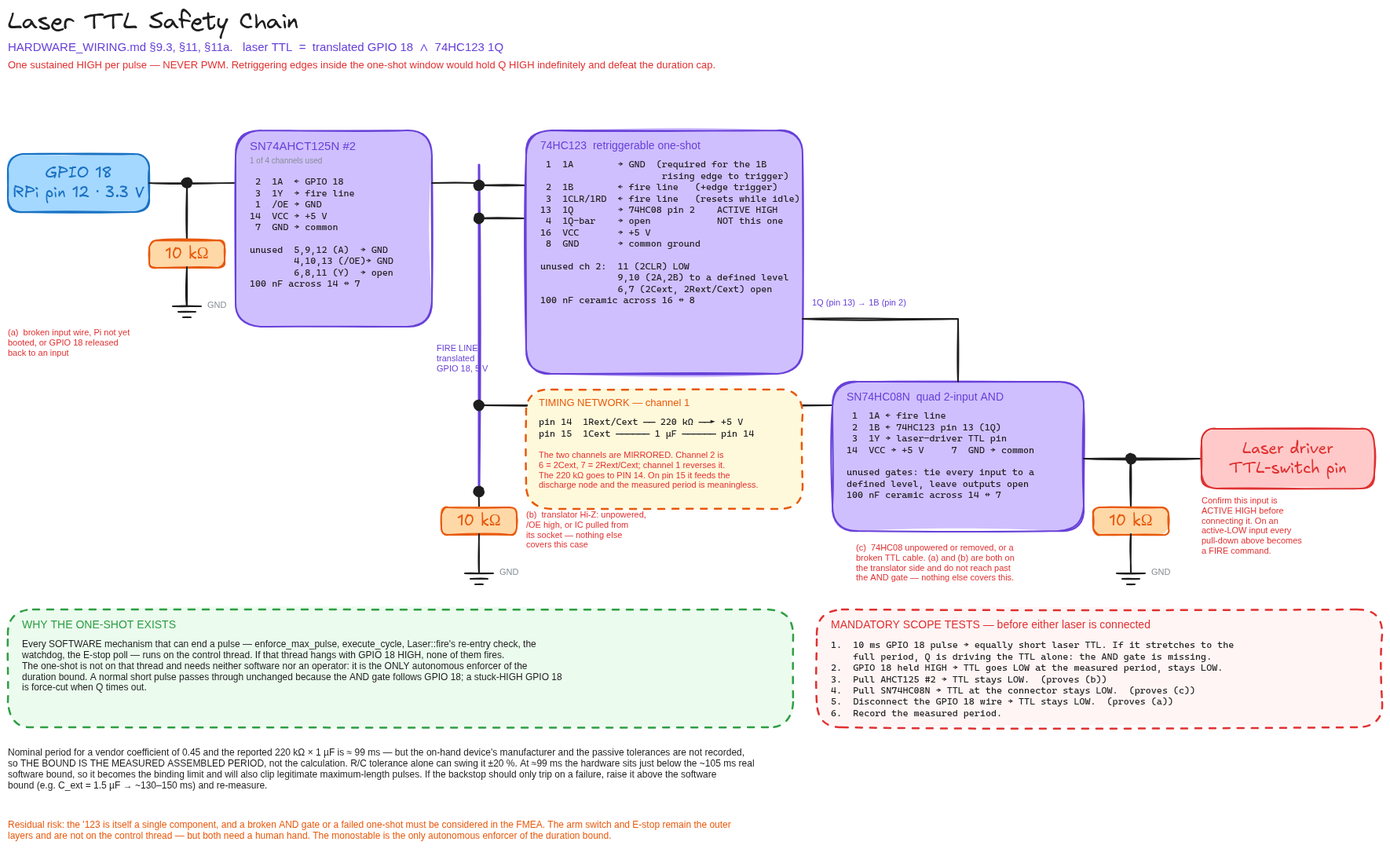
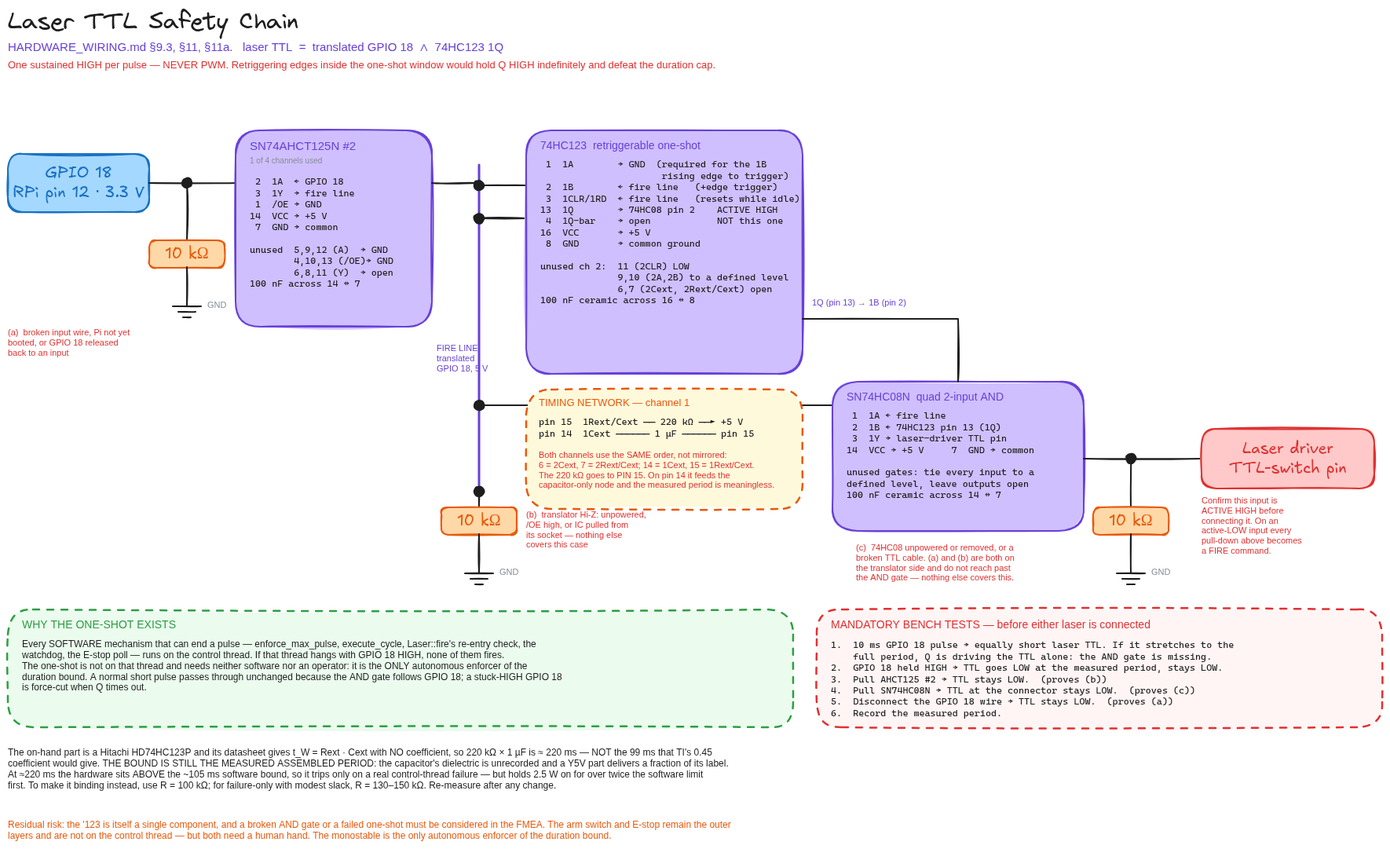
docs: fix 74HC123 timing pins and coefficient against the Hitachi datasheet
The monostable on hand is a Hitachi HD74HC123P (date code 9K06), identified
from the package marking. Its datasheet contradicts this project's wiring
guide on two independent points, both in the timing network, and both were
recorded here as assumptions borrowed from a Texas Instruments part that is
not the part in the box.

Pins 14 and 15 were the wrong way round -- the serious one
  The guide specified the 220 kOhm on pin 14 and justified it with a
  prominent warning block claiming the two channels are "mirrored". The
  datasheet's pin arrangement says otherwise:

      1B     2 | 15  1Rext/Cext
      1CLR   3 | 14  1Cext
      2Cext  6 | 11  2CLR
      2Rext/ 7 | 10  2B

  Both channels use the SAME order -- Cext at the lower pin number, Rext/Cext
  at the higher -- so there is no mirroring and the 220 kOhm belongs on
  pin 15. Built as previously documented, the resistor lands on the
  capacitor-only node: precisely the failure the warning block claimed to
  prevent, and the one that makes the mandatory measurement correspond to
  nothing in the design.

  This is the second time these two pins have been swapped in this document.
  The first correction moved them the wrong way and invented a rationale for
  it. Corrected now against the datasheet of the device actually on hand, in
  HARDWARE_WIRING.md 2/11a/17, PRE_FLIGHT_CHECKLIST.md 2 and its go/no-go
  table, AGENTS.md 4.1, README.md, and drawings 5 and 6.
[…]

diff --git a/docs/HARDWARE_WIRING.md b/docs/HARDWARE_WIRING.md
@@ -144,7 +144,7 @@ the counts to shop against; the rows above are the counts per role.
 | 1 kΩ, 1/2 W | **1** | E-stop series |
 | BZX55C3V3 | **2** | one clamp per sense junction |
 | 10 µF | **1** | 5 V rail bulk |
-| 220 kΩ, 1/2 W | **1** | 74HC123 timing, to **pin 14** (§11a) |
+| 220 kΩ, 1/2 W | **1** | 74HC123 timing, to **pin 15** (§11a) |
 | 1 µF, 50 V ceramic | **1** | 74HC123 timing, pins 15↔14 (§11a) |
 
 Meter every resistor before installation and fit it against the value in the
@@ -901,8 +901,8 @@ SN74AHCT125N #2 1Y (pin 3, §9) ─────┬──────────
 
 Timing network (channel 1) — the pin numbers below are load-bearing, see the
 warning that follows this block:
-    74HC123  1Cext (pin 15) ──── 1 µF / 50 V monolithic ceramic ──── 1Rext/Cext (pin 14)
-    74HC123  1Rext/Cext (pin 14) ── 220 kΩ ──► +5 V
+    74HC123  1Cext (pin 14) ──── 1 µF / 50 V monolithic ceramic ──── 1Rext/Cext (pin 15)
+    74HC123  1Rext/Cext (pin 15) ── 220 kΩ ──► +5 V
     74HC123 VCC (pin 16) ──► +5 V ; GND (pin 8) ──► common GND
     100 nF ceramic directly across 74HC123 pins 16↔8
     Unused channel 2: hold 2CLR/2RD (pin 11) LOW; tie 2A/2B (pins 9/10) to defined levels;
@@ -914,15 +914,18 @@ AND gate:
     Tie every unused AND-gate input to a defined HIGH or LOW; leave unused outputs open
 ```
 
-> **The two channels are mirrored — do not carry channel 2's pin order into
-> channel 1.** On the standard 74HC123 pinout channel 2 is `6 = 2Cext,
-> 7 = 2Rext/Cext`, while channel 1 is `14 = 1Rext/Cext, 15 = 1Cext`. The order
-> reverses. A previous revision of this document had 14 and 15 swapped, which
-> puts the 220 kΩ on the discharge node instead of the timing node: the one-shot
-> does not time as designed, and the mandatory measurement below then
-> corresponds to nothing in the design. **The 220 kΩ goes to pin 14.** Check it
-> against the datasheet of the device actually in your hand before powering the
-> board.
+> **The 220 kΩ goes to pin 15.** On the standard 74HC123 pinout the two channels
+> follow the *same* order, not a mirrored one: `6 = 2Cext, 7 = 2Rext/Cext` for
+> channel 2, and `14 = 1Cext, 15 = 1Rext/Cext` for channel 1 — Cext at the lower
+> pin number in both. This is confirmed against the pin arrangement in the
+> Hitachi **HD74HC123A** datasheet, the family of the device actually on hand.
+>
+> Two earlier revisions of this document had 14 and 15 the other way round, the
+> second one justified by a "mirrored channels" claim that the datasheet does not
+> support. Built that way the 220 kΩ lands on the capacitor-only node instead of
+> the timing node: the one-shot does not time as designed, and the mandatory
+> measurement below then corresponds to nothing in the design. Check it against
+> the datasheet of the device actually in your hand before powering the board.
 
 Pin 13 is the channel-1 **active-HIGH Q** output on the standard 74HC123 pinout;
 pin 4 is its active-LOW complement and must not be used for the AND gate. Verify
@@ -942,19 +945,45 @@ with the 74HC08 absent, while still letting the 74HC08 pull it HIGH.
 
 ### Timing
 
-For a 74HC123 whose manufacturer specifies `K = 0.45` at 5 V and this
-capacitance range:
+The on-hand device is a **Hitachi HD74HC123P** (date code 9K06). Its datasheet
+states the pulse equation with **no coefficient at all**:
 
-`t_W ≈ K · R_ext · C_ext = 0.45 · 220 kΩ · 1 µF ≈ 99 ms`
+`t_W = R_ext · C_ext`
 
-The on-hand device's manufacturer/full ordering code and the R/C tolerances are
-not recorded. The coefficient can differ by manufacturer, and the fitted
-monolithic ceramic capacitor's effective capacitance can differ from its label.
-**Measure the assembled circuit.** If the measured result is around 99 ms it
-sits just below the ~105 ms real software bound, so the hardware becomes the
-binding limit and clips legitimate max-length pulses. Any change to the timing
-network requires a new calculation and a fresh measurement; do not rely on the
-nominal marking alone.
+and the switching table confirms it — `C_ext = 0.1 µF, R_ext = 10 kΩ` is
+specified as a typical `t_WQ` of **1.0 ms**, which is exactly `R · C`. So for the
+fitted parts:
+
+`t_W = 220 kΩ · 1 µF ≈ 220 ms`
+
+**This is not the 99 ms this document previously claimed.** That figure came
+from applying the Texas Instruments `K = 0.45` coefficient to a part that is not
+a TI part — an assumption recorded as an assumption, and wrong by a factor of
+2.2 in the direction that *weakens* the backstop. At 220 ms the one-shot sits
+**above** the ~105 ms real software bound rather than just below it, so it no
+longer clips legitimate pulses and instead trips only on a genuine control-thread
+failure — but with far more slack than intended, holding 2.5 W on for over twice
+the software limit before cutting.
+
+Choose the regime deliberately and size the network for it, all values with
+`K = 1`:
+
+| Intent | Target | With C = 1 µF | With R = 220 kΩ |
+|--------|--------|---------------|-----------------|
+| Hardware is the binding limit, clips long pulses | ~99 ms | R = 100 kΩ | C = 0.45 µF |
+| Trips only on failure, modest slack | ~130–150 ms | R = 130–150 kΩ | C = 0.6–0.68 µF |
+| As currently fitted | ~220 ms | — | — |
+
+**Measure the assembled circuit** whatever you choose. The datasheet gives the
+equation, not the part in your hand: the capacitor's dielectric is unrecorded,
+and a Y5V or Z5U 1 µF can deliver a fraction of its nominal capacitance under
+bias and temperature. Any change to the timing network requires a new
+calculation and a fresh measurement.
+
+The marking reads `HD74HC123P`, without the `A` of the datasheet revision
+obtained (`HD74HC123A`). The pin arrangement is the industry-standard 74123
+pinout and is not in doubt; the coefficient should be re-confirmed by the
+measurement, which is mandatory regardless.
 
 **±20% is accurate enough — this is a bound to be known, not a parameter to be
 tuned.** What the measurement rules out is not a 10% error but a
@@ -1042,7 +1071,7 @@ something it cannot act on that the hardware has not already done. Pull-downs
 
 ### Verification (mandatory before connecting the Class 4 laser)
 
-- [ ] **Short pulse passes through:** drive GPIO 18 HIGH for ~10 ms; the laser TTL must be HIGH for ~10 ms (not stretched to ~99 ms). If it stretches, Q is driving the TTL *alone* — the AND gate is missing or miswired. Fix before proceeding.
+- [ ] **Short pulse passes through:** drive GPIO 18 HIGH for ~10 ms; the laser TTL must be HIGH for ~10 ms (not stretched to the full one-shot width, ~220 ms as fitted). If it stretches, Q is driving the TTL *alone* — the AND gate is missing or miswired. Fix before proceeding.
 - [ ] **Stuck-HIGH is capped:** hold GPIO 18 HIGH indefinitely; the laser TTL must go LOW at the measured t_W and stay LOW.
 - [ ] **Trigger pins verified:** confirm 1A is LOW, translated GPIO 18 reaches
   1B and 1CLR/1RD, and pin 13 (not pin 4) supplies active-HIGH Q to the AND gate.
@@ -1054,9 +1083,9 @@ something it cannot act on that the hardware has not already done. Pull-downs
   unpower it) and confirm the voltage at the **laser-driver TTL connector** stays
   LOW. This proves pull-down (c). Nothing upstream of the AND gate covers this
   case: (a) and (b) are both on the translator side.
-- [ ] **Timing pins verified against the datasheet:** 220 kΩ on **pin 14**
-  (1Rext/Cext), capacitor between pins 15 and 14. Wired to pin 15 instead, the
-  measured period is meaningless.
+- [ ] **Timing pins verified against the datasheet:** 220 kΩ on **pin 15**
+  (1Rext/Cext), capacitor between pins 14 and 15. Wired to pin 14 instead, the
+  resistor feeds the capacitor-only node and the measured period is meaningless.
 - [ ] **Period measured** and recorded; matches intent (§ Timing above).
 - [ ] **No PWM firing:** confirm the firing path drives a single sustained level per pulse — a retriggering burst within t_W would hold the output HIGH and defeat the cap.
 
@@ -1258,7 +1287,7 @@ it is a separate work package for a qualified person — but it must not be
 | **1** | **Enclosure mechanics.** Case, beam dump, door-interlock switch mounting, PE bonding plan. No electronics. | Door interlock actuates on door movement and cannot be defeated without a tool (§6a) |
 | **2** | **Pi alone.** USB-C only. Toggle GPIO 18/24/25, watch edges with `gpiomon`. No 5 V rail, nothing else connected. | Every pin behaves; `gpiomon` timestamps are sane |
 | **3** | **DAC island.** 5 V logic rail, AHCT125 #1, both MCP4922s **including `/LDAC` to GND and `/SHDN` to +5 V**, CE0/CE1 pull-ups. | All four DAC outputs ≈ 2.5 V; the 5 V rail measured at the DAC pin under load and written into `dac_reference_voltage` (§8) |
-| **4** | **Pulse-duration backstop.** AHCT125 #2, 74HC123 with the **220 kΩ on pin 14**, SN74HC08N, pull-downs (a)(b)(c). Instrumentation and dummy load only — no laser of any class. A scope, a logic analyser or the Pi's own `gpiomon` all work; the method is in §11a. | Every checkbox in §11a passes and **the measured period is recorded** |
+| **4** | **Pulse-duration backstop.** AHCT125 #2, 74HC123 with the **220 kΩ on pin 15**, SN74HC08N, pull-downs (a)(b)(c). Instrumentation and dummy load only — no laser of any class. A scope, a logic analyser or the Pi's own `gpiomon` all work; the method is in §11a. | Every checkbox in §11a passes and **the measured period is recorded** |
 | **5** | **Sense networks.** Arm and E-stop dividers, Zeners with the band at the junction, door-interlock contacts. Meter each node **with the GPIO wire disconnected**, then attach. | ≈ 0 V / 2.98 V on arm OFF/ON; ≈ 0 V / 2.53 V on E-stop pressed/released (§5, §6) |
 | **6** | **Mains package.** Isolator, overcurrent protection, RCD, K1, START/STOP, terminal blocks, PE bonding. Designed, built and inspected by a qualified person. | Latching verified: E-stop drops K1; **releasing it does nothing**; only START restores. Both DC rails measured at 0 V with the E-stop pressed (§3) |
 | **7** | **DC supplies, unloaded.** Energise ±15 V and 12 V with nothing connected. | +15 V, 0 V, −15 V and 12 V all within tolerance; COM bonded to common ground (§13) |

diff --git a/AGENTS.md b/AGENTS.md
@@ -23,8 +23,8 @@ This project implements a stereoscopic laser-targeting system for in-flight pest
 | Y-axis DAC | MCP4922 DIP-14 12-bit dual DAC | Differential Y-axis galvo drive |
 | Level translation | 2 × **SN74AHCT125N**, PDIP-14 quad bus buffer — package #1 carries the four SPI signals, package #2 carries GPIO 18 alone | On hand; **marking not yet read.** `AHCT` is load-bearing: `AHC`/`HC` are pin-identical with 3.5 V thresholds. The pin-identical `AHCT126` self-gated variant was considered and rejected (`HARDWARE_WIRING.md` §9.3) |
 | Monostable | 74HC123 (DIP-16), manufacturer/order code unverified | Hardware pulse-duration backstop on laser TTL (§4.1) |
-| Monostable timing R | 1/2 W carbon-film 220 kΩ (1Rext/Cext → +5 V) | Reported on hand; sets one-shot period with C_ext |
-| Monostable timing C | 50 V monolithic-ceramic 1 µF (across 1Cext ↔ 1Rext/Cext) | Reported on hand; nominal period ≈0.45·R·C ≈99 ms only for a matching vendor coefficient; bench verification of the assembled period is mandatory |
+| Monostable timing R | 1/2 W carbon-film 220 kΩ (1Rext/Cext, **pin 15** → +5 V) | On hand; sets one-shot period with C_ext |
+| Monostable timing C | 50 V monolithic-ceramic 1 µF (across 1Cext pin 14 ↔ 1Rext/Cext pin 15) | On hand; the Hitachi datasheet gives `t_W = R·C` with **no coefficient**, so the fitted parts compute to **≈220 ms**, not 99 ms; bench verification of the assembled period is mandatory |
 | AND gate | SN74HC08N (DIP-14) quad 2-input AND | Gates laser TTL = GPIO18 ∧ one-shot-Q (§4.1) |
 | Safety contactor **K1** | 2 main poles rated for the *combined* cold-start inrush of both DC supplies, coil matched to the control circuit, ≥1 auxiliary NO | On hand; **not wired.** Does the mains switching so the mushroom breaks only the coil circuit, and latches so an E-stop *release* cannot restart the system (§4.8) |
 | START button + isolator/OCP/RCD | NO momentary; upstream isolator, overcurrent protection, RCD per local rules | On hand; **not wired.** START is the deliberate restart action |
@@ -121,12 +121,12 @@ No transition from `SAFE_HALT` back to any operational state — requires full s
 
 **Every *software* mechanism that can end a pulse runs on the control thread itself.** `enforce_max_pulse`, `execute_cycle`, `Laser::fire`'s re-entry check, the watchdog, and the E-stop poll are all on the *control thread*. If that thread stalls with the pin HIGH, none of them fires. This is why `core/print.h` is non-blocking (§4.11) — it removes the most likely way for that thread to stall — and it is why the pulse bound needs an enforcer that is *not* on that thread.
 
-**Hardware backstop — 74HC123 retriggerable monostable on the TTL line.** A one-shot sits between the SN74AHCT125N #2 fail-LOW GPIO 18 interface and the laser driver TTL, wired so the laser TTL is `translated GPIO18 ∧ one-shot-Q`, with channel-1 A held LOW, the translated fire line driving channel-1 B and CLR/RD, and the active-HIGH Q taken from standard DIP pin 13 into the AND gate. The one-shot triggers on GPIO 18's rising edge and re-arms/reset while the fire line is LOW. Effect: a normal short pulse passes through unchanged (the AND gate follows GPIO 18), but a control thread that hangs with GPIO 18 stuck HIGH is force-cut when Q times out — **with no software path and no operator action.** This is the enforcer the software cannot be: it is the only thing that makes the pulse-duration bound independent of the control thread. For a vendor coefficient of 0.45, the reported `220 kΩ × 1 µF` timing parts give a nominal **99 ms**; the actual bound is the mandatory measured assembled period because the on-hand 74HC123 manufacturer and passive tolerances are not yet recorded (see `docs/HARDWARE_WIRING.md` §11a). The 220 kΩ goes to **pin 14** (`1Rext/Cext`): the two channels are mirrored — channel 2 is `6 = 2Cext, 7 = 2Rext/Cext` and channel 1 reverses that — and a revision of the wiring guide had 14 and 15 swapped, which puts the resistor on the discharge node and makes the measured period meaningless.
+**Hardware backstop — 74HC123 retriggerable monostable on the TTL line.** A one-shot sits between the SN74AHCT125N #2 fail-LOW GPIO 18 interface and the laser driver TTL, wired so the laser TTL is `translated GPIO18 ∧ one-shot-Q`, with channel-1 A held LOW, the translated fire line driving channel-1 B and CLR/RD, and the active-HIGH Q taken from standard DIP pin 13 into the AND gate. The one-shot triggers on GPIO 18's rising edge and re-arms/reset while the fire line is LOW. Effect: a normal short pulse passes through unchanged (the AND gate follows GPIO 18), but a control thread that hangs with GPIO 18 stuck HIGH is force-cut when Q times out — **with no software path and no operator action.** This is the enforcer the software cannot be: it is the only thing that makes the pulse-duration bound independent of the control thread. The on-hand device is a **Hitachi HD74HC123P**, whose datasheet gives `t_W = R_ext · C_ext` with **no coefficient**: the fitted `220 kΩ × 1 µF` computes to **≈220 ms**, not the 99 ms this document previously claimed from TI's `K = 0.45`. At 220 ms the one-shot sits *above* the ~105 ms software bound, so it trips only on a real control-thread failure — but holds 2.5 W on for over twice the software limit first. The actual bound remains the mandatory measured assembled period (see `docs/HARDWARE_WIRING.md` §11a). The 220 kΩ goes to **pin 15** (`1Rext/Cext`), with the capacitor between pins 14 and 15: both channels use the same order (`6 = 2Cext, 7 = 2Rext/Cext`; `14 = 1Cext, 15 = 1Rext/Cext`), and two earlier revisions had 14 and 15 the other way round, which puts the resistor on the capacitor-only node and makes the measured period meaningless.
 
 The guarantee is real **only if three conditions hold, and each must be verified on the bench — an unverified backstop is a comment (§4, §7):**
-1. **The AND gating is present.** If Q drives the laser TTL *alone* (no AND with GPIO 18), every fire pulse is stretched to the full ~99 ms one-shot width — a hazard, not a guard. Verify: a short GPIO 18 pulse must produce an equally short laser pulse; a *stuck-HIGH* GPIO 18 must produce a single ~99 ms pulse and then stay dark.
+1. **The AND gating is present.** If Q drives the laser TTL *alone* (no AND with GPIO 18), every fire pulse is stretched to the full one-shot width — ~220 ms with the parts as fitted, a hazard rather than a guard, and more than twice what the software would ever command. Verify: a short GPIO 18 pulse must produce an equally short laser pulse; a *stuck-HIGH* GPIO 18 must produce a single one-shot-width pulse and then stay dark.
 2. **Firing is a single sustained level, never a PWM burst.** "Retriggerable" means edges *restart* the timer; repeated edges within the window would hold Q HIGH indefinitely and defeat the cap. Current firing (`fire(true)`/`fire(false)`) satisfies this — it is now a constraint the firing path must never violate.
-3. **The measured period is what you intend.** At ~99 ms the one-shot sits *below* the ~105 ms real software bound, so hardware becomes the binding limit and will also clip legitimate max-length pulses (safe, and arguably desirable). If the backstop should only trip on a *failure*, raise it above the software bound (e.g. C_ext = 1.5 µF → ~130–150 ms). R/C tolerance alone can swing the period ±20%.
+3. **The measured period is what you intend.** As fitted the one-shot is ~220 ms, which sits *above* the ~105 ms real software bound: it never clips a legitimate pulse and trips only on a genuine control-thread failure — but it then holds 2.5 W on for more than twice the software limit. To make hardware the binding limit instead (safe, and arguably desirable, since it also clips max-length pulses) use R_ext = 100 kΩ for ~99 ms; for failure-only tripping with modest slack, 130–150 kΩ. R/C tolerance alone can swing the period ±20%, and an unrecorded ceramic dielectric far more.
 
 **Remaining residual risk.** The '123 is itself a single component; a failure of the one-shot or a broken AND gate must be considered in the FMEA. The operator interlocks remain the outer layers and are *not* on the control thread: the **arm switch** cuts 12 V to the driver (a true hardware interlock), and the **E-stop** cuts mains — but both require a human hand and neither is autonomous. The monostable is the only autonomous enforcer of the *duration* bound.
 

diff --git a/docs/HARDWARE_INVENTORY.md b/docs/HARDWARE_INVENTORY.md
@@ -37,7 +37,7 @@ the reported **2.5 W** module only.
 |--------------|-----|------------------------|
 | DAC | 2 | MCP4922, DIP-14, dual-channel 12-bit DAC |
 | Level translation | 2 | SN74AHCT125N, PDIP-14 quad bus buffer with 3-state outputs — package #1 for the four SPI signals, package #2 for GPIO 18 alone. **Marking not yet checked on either device** |
-| Monostable | 1 | 74HC123, DIP-16; manufacturer and full ordering code not recorded |
+| Monostable | 1 | **Hitachi HD74HC123P**, DIP-16, date code 9K06 — identified from the package marking 2026-08-03. Marked without the `A` of the `HD74HC123A` datasheet revision obtained |
 | AND gate | 1 | SN74HC08N, DIP-14, quad 2-input AND gate |
 | Resistors | count not recorded | Carbon film, 1/2 W: 220 kΩ, 10 kΩ, 3.3 kΩ and 1 kΩ values |
 | Capacitors | count not recorded | 50 V monolithic ceramic: 1 µF and 100 nF values, plus a 10 µF rail bulk capacitor |
@@ -84,7 +84,7 @@ believe it is there and working.
 | **Galvo-driver analog input topology and common-mode range are unverified** | This is the assumption with the widest blast radius in the design: `HARDWARE_WIRING.md` §14, `CoordinateMapper`, `DifferentialGalvoDriver` and the choice of two MCP4922s all rest on it. Because the DAC channels are complementary unipolar 0–5 V outputs, the pair presents a permanent **2.5 V common mode**. "±5 V analog input at 0.33 V/°" in a seller listing establishes neither that the inputs are a genuine differential pair, nor that 2.5 V is inside the permitted common-mode range, nor that ±5 V is a *differential* rating rather than per-input-to-ground. If any is wrong, every commanded angle is wrong by a scale or offset error — a silent aiming fault. | Obtain the driver's own manual or schematic and confirm all three points before connecting the DACs. Re-confirm empirically during calibration: command a known angle and measure the actual deflection. Do not resolve this by trial with any laser connected. |
 | Test-laser electrical details are unknown | A bare 12 mm, 5 mW module may not accept the working laser’s 3-pin TTL interface and therefore may not test the real gating chain. | Record its wavelength, labelled class, supply voltage, current, pinout, and TTL behaviour. Use it for gated alignment only if electrically compatible; otherwise use a suitably classified TTL-controlled alignment module. |
 | Working-laser 3-pin pinout and TTL levels are unknown | “TTL/PWM” in a seller listing does not establish pin order, active polarity, input thresholds, or safe power-up state. **Polarity is the critical unknown:** every fail-LOW measure in `HARDWARE_WIRING.md` §9.3 and §11a assumes LOW = off. On an active-LOW input the whole chain inverts and all three pull-downs become a *fire* command — the pull-downs would have to become pull-ups and the AND gate would have to become a different gate. | Obtain the module/driver pinout and confirm the input is **active HIGH** from its own documentation. Verify with the Class 4 optical output disconnected or blocked by an appropriate non-optical test load. Do not establish polarity experimentally with the Class 4 module connected. The project firing path must remain single-level TTL, never PWM. |
-| Passive-component quantities/tolerances are still unmeasured | The design needs a timing R/C, per-IC supply decoupling, rail bulk decoupling, two debounce capacitors, two Zener clamps, three laser-path fail-LOW pull-downs, and two chip-select pull-ups. The actual 74HC123 pulse width depends on the fitted R/C values and vendor. | Count and meter-check parts against the running totals in `HARDWARE_WIRING.md` §2: **6 × 10 kΩ**, **8 × 100 nF**, 2 × 3.3 kΩ, 1 × 1 kΩ, 2 × BZX55C3V3, 1 × 10 µF, 1 × 220 kΩ, 1 × 1 µF. Fit 100 nF at each IC, and measure the one-shot period before connecting either laser. |
+| Passive-component quantities/tolerances are still unmeasured | The design needs a timing R/C, per-IC supply decoupling, rail bulk decoupling, two debounce capacitors, two Zener clamps, three laser-path fail-LOW pull-downs, and two chip-select pull-ups. The actual 74HC123 pulse width depends on the fitted R/C values; the vendor is now known (Hitachi, `t_W = R·C`), which puts the nominal at ≈220 ms. | Count and meter-check parts against the running totals in `HARDWARE_WIRING.md` §2: **6 × 10 kΩ**, **8 × 100 nF**, 2 × 3.3 kΩ, 1 × 1 kΩ, 2 × BZX55C3V3, 1 × 10 µF, 1 × 220 kΩ, 1 × 1 µF. Fit 100 nF at each IC, and measure the one-shot period before connecting either laser. |
 
 WAGO 221-413 connectors are three-conductor splicing connectors, not barriers
 between unrelated circuits. Use a separate connector for each of Live, Neutral,
@@ -99,7 +99,12 @@ manufacturer of an unmarked on-hand part.
 - [Microchip MCP4902/4912/4922 data sheet](https://ww1.microchip.com/downloads/en/devicedoc/22250a.pdf) — `/LDAC`, `/SHDN`, and the BUF = 0 reference range
 - [TI SN74AHCT125 product information](https://www.ti.com/product/SN74AHCT125)
 - [TI SN74AHCT126 product information](https://www.ti.com/product/SN74AHCT126) — the pin-identical active-HIGH `OE` variant, considered and rejected
-- [TI CD74HC123 product information](https://www.ti.com/product/CD74HC123) — channel-1 timing pins are **14 = 1Rext/Cext, 15 = 1Cext**, mirrored relative to channel 2
+- **Hitachi HD74HC123A data sheet** — the family of the device actually on hand.
+  Two things come from it and neither matches what this project previously
+  assumed from a TI part: the pulse equation is `t_W = R_ext · C_ext` with **no
+  coefficient** (confirmed by its own switching table, where 10 kΩ × 0.1 µF is
+  specified as a typical 1.0 ms), and the channel-1 timing pins are
+  **14 = 1Cext, 15 = 1Rext/Cext** — the *same* order as channel 2, not mirrored
 - [TI SN74HC08 product information](https://www.ti.com/product/SN74HC08)
 - [Mean Well LRS-50 series data sheet](https://www.meanwell.com/Upload/PDF/LRS-50/LRS-50-SPEC.PDF) — the 45 A cold-start inrush figure that rules out direct mains switching through a pilot-duty contact
 - [WAGO 221-413 product information](https://www.wago.com/global/installation-terminal-blocks-and-connectors/splicing-connector-with-levers/p/221-413) — a three-port *splicing* connector, not a terminal block and not a barrier between circuits

diff --git a/docs/PRE_FLIGHT_CHECKLIST.md b/docs/PRE_FLIGHT_CHECKLIST.md
@@ -22,7 +22,7 @@ The following software and hardware-abstraction components are present and pass 
 | Thread architecture | Implemented | Three decoupled threads: capture, processing, control. |
 | Frame dropping | Implemented | `ThreadSafeQueue::drain_all()` keeps only the freshest frame. |
 | Safety state machine | Implemented | `INIT → IDLE → ARMED → TRACKING → FIRING → COOLDOWN` plus `SAFE_HALT`. |
-| Max pulse limit | Implemented in software; hardware pending measurement | `FiringController` / `Laser` enforce the 100 ms config limit; the true software bound is ~105 ms (limit + one fixed 5 ms control cycle + jitter). The 74HC123 independently caps the TTL at its measured period; ~99 ms is only the nominal calculation for the reported 220 kΩ / 1 µF parts and a matching vendor coefficient. |
+| Max pulse limit | Implemented in software; hardware pending measurement | `FiringController` / `Laser` enforce the 100 ms config limit; the true software bound is ~105 ms (limit + one fixed 5 ms control cycle + jitter). The 74HC123 independently caps the TTL at its measured period; the on-hand Hitachi HD74HC123P computes to ≈220 ms from `t_W = R·C`, which is **above** the software bound rather than below it. |
 | Cooldown | Implemented | 10-second non-bypassable cooldown after each pulse. |
 | Motion blanking | Implemented | No galvo writes while the laser is ON. |
 | Arm switch gating | Implemented | `FiringController` rejects targets/fire when disarmed. |
@@ -124,11 +124,11 @@ verify the logic, backstop and sense circuits first; the mains package is stage 
   - Arm switch OFF → LOW.
   - Arm switch ON → ≈ 2.98 V (HIGH).
 - [ ] **74HC123 pulse-duration backstop is wired and bench-verified** (see `docs/HARDWARE_WIRING.md` §11a). This is the only enforcer of the pulse-duration bound that is independent of the control thread:
-  - The **220 kΩ is on pin 14** (`1Rext/Cext`) and the 1 µF is between pins 15 and
-    14. The two channels are mirrored — channel 2 is `6 = 2Cext, 7 = 2Rext/Cext`,
-    channel 1 reverses that. On pin 15 the resistor feeds the discharge node and
+  - The **220 kΩ is on pin 15** (`1Rext/Cext`) and the 1 µF is between pins 14 and
+    15. Both channels use the same order — `6 = 2Cext, 7 = 2Rext/Cext` and
+    `14 = 1Cext, 15 = 1Rext/Cext`. On pin 14 the resistor feeds the capacitor-only node and
     the measured period means nothing: **no-go**.
-  - A short (~10 ms) GPIO 18 pulse produces an equally short laser-TTL pulse (NOT stretched to ~99 ms — if stretched, the AND gate is missing/miswired: **no-go**).
+  - A short (~10 ms) GPIO 18 pulse produces an equally short laser-TTL pulse (NOT stretched to the full one-shot width, ~220 ms as fitted — if stretched, the AND gate is missing/miswired: **no-go**).
   - A stuck-HIGH GPIO 18 drives the laser TTL LOW at the measured one-shot period and keeps it LOW.
   - The one-shot period is measured and **recorded** — scope, logic analyser,
     or the Pi's own `gpiomon` (`HARDWARE_WIRING.md` §11a). ±20% is accurate enough.
@@ -229,7 +229,7 @@ Do not connect the 2.5 W Class 4 laser until all of the following are true:
 | Galvo driver input topology | Differential pair, 2.5 V common mode and differential ±5 V rating all confirmed from the driver's own manual (§10) |
 | Power and logic interfaces | Bipolar ±15 V galvo supply installed; SPI and laser level interfaces electrically and scope verified; all three §9.3 pull-downs individually proven |
 | MCP4922 control pins | `/LDAC` grounded, `/SHDN` at +5 V, `dac_reference_voltage` set from the measured rail |
-| 74HC123 pulse-duration backstop | Wired with AND gating, **220 kΩ on pin 14**, and bench-verified (short pulse passes, stuck-HIGH capped, period recorded) |
+| 74HC123 pulse-duration backstop | Wired with AND gating, **220 kΩ on pin 15**, and bench-verified (short pulse passes, stuck-HIGH capped, period recorded) |
 | Laser driver TTL polarity | Confirmed **active HIGH** from the module's own documentation |
 | Camera calibration | Real values entered, startup validation passes |
 | Camera by-path identification | Stable symlinks in `config/system_config.yaml` |

diff --git a/README.md b/README.md
@@ -24,7 +24,7 @@ parts.
 | Laser power supply | Mean Well LRS-50-12, 12 VDC / 4.2 A / 50 W | On hand; working-laser driver power only |
 | DACs | 2× MCP4922 DIP-14, dual-channel 12-bit | On hand; one DAC per galvo axis |
 | Level translation | 2× **SN74AHCT125N** PDIP-14 quad bus buffer — one package for SPI, a second for GPIO 18 | On hand; **marking not yet read**. `AHCT` is load-bearing — `AHC`/`HC` are pin-identical with 3.5 V thresholds |
-| Pulse backstop logic | 74HC123 DIP-16 + SN74HC08N DIP-14; 220 kΩ 1/2 W + 1 µF 50 V monolithic ceramic timing parts | On hand; nominal ~99 ms. Manufacturer/tolerances and actual period must be verified. The 220 kΩ goes to **pin 14** |
+| Pulse backstop logic | 74HC123 DIP-16 + SN74HC08N DIP-14; 220 kΩ 1/2 W + 1 µF 50 V monolithic ceramic timing parts | On hand. `74HC123` is a Hitachi HD74HC123P whose datasheet gives `t_W = R·C`, so the fitted parts are **≈220 ms**, not 99 ms. Actual period must still be measured. The 220 kΩ goes to **pin 15** |
 | Safety contactor + START | 2-pole contactor rated for the *combined* cold-start inrush, ≥1 auxiliary NO, plus a START button and mains isolator/OCP/RCD | On hand; **not wired.** The mushroom must not switch mains directly |
 | Door interlock | Switch with 2 independent NC contacts, positive/direct opening | On hand; contact arrangement unconfirmed |
 | Switches | Lever switch + mushroom button | On hand; contact topology and ratings remain unverified |
@@ -181,7 +181,7 @@ If either `left_camera_device` or `right_camera_device` is empty — or the two 
 
 The system implements structurally-enforced safety guards (see `AGENTS.md` for full detail):
 
-1. **Laser pulse duration** — control-loop + HAL max-pulse enforcement. Real software bound is ~105ms (limit + one fixed 5 ms control cycle), not a flat 100ms; the 74HC123 one-shot independently caps the TTL at its mandatory measured period (nominally ~99 ms for the reported 220 kΩ / 1 µF parts and a matching vendor coefficient)
+1. **Laser pulse duration** — control-loop + HAL max-pulse enforcement. Real software bound is ~105ms (limit + one fixed 5 ms control cycle), not a flat 100ms; the 74HC123 one-shot independently caps the TTL at its mandatory measured period (nominally ~220 ms: the on-hand Hitachi part specifies `t_W = R·C` with no coefficient, so it sits *above* the software bound)
 2. **10-second firing cooldown** — `may_fire(now)` gate, applied on *every* pulse-end path (clean, aborted, and fault)
 3. **Motion blanking** — no galvo writes while laser ON; fire only after settle
 4. **Arm switch gating** — targets/fire rejected when disarmed; GPIO fault → disarmed

diff --git a/docs/HARDWARE_PARAMETERS.md b/docs/HARDWARE_PARAMETERS.md
@@ -236,7 +236,7 @@ alignment module.
 | Guard | Mechanism | Location |
 |-------|-----------|----------|
 | Max pulse | per-cycle duration check + `Laser::enforce_max_pulse`; real software bound ≈ 100 ms config limit + one fixed 5 ms control cycle + jitter (~105 ms — a flat "≤ 100 ms" is a claim the software cannot make, AGENTS.md §4.1) | `FiringController`, `Laser` |
-| Pulse backstop (hardware) | 74HC123 one-shot + 74HC08 AND on the TTL line force-cut a stuck-HIGH GPIO 18 at the measured one-shot period (nominally ≈99 ms for the reported R/C values and a 0.45 vendor coefficient) with no software or operator involvement — see §3.2 below | wiring, §11a of `HARDWARE_WIRING.md` |
+| Pulse backstop (hardware) | 74HC123 one-shot + 74HC08 AND on the TTL line force-cut a stuck-HIGH GPIO 18 at the measured one-shot period (nominally ≈220 ms: the on-hand Hitachi HD74HC123P specifies `t_W = R·C` with no coefficient) with no software or operator involvement — see §3.2 below | wiring, §11a of `HARDWARE_WIRING.md` |
 | Cooldown | `cooldown_until_` gates `may_fire()` (configured 10 s; validator floor 1 s) | `FiringController` |
 | Motion blanking | no galvo writes while pulse active; settle required before fire | `FiringController` |
 | Arm switch | `set_armed` + fire path reject when disarmed; GPIO fault → disarmed | `FiringController`, `ArmSwitch` |
@@ -257,8 +257,10 @@ triggered by GPIO 18's rising edge. A normal short pulse passes through
 unchanged; a stuck-HIGH GPIO 18 is force-cut when Q times out — with no
 software path and no operator action. The fitted timing parts are reported as a
 1/2 W carbon-film 220 kΩ resistor and a 50 V monolithic-ceramic 1 µF capacitor.
-For an HC123 whose manufacturer specifies the 0.45 coefficient at 5 V, the
-nominal period is `0.45 · 220 kΩ · 1 µF ≈ 99 ms`. The full 74HC123 ordering code,
+The on-hand device is a Hitachi HD74HC123P, whose datasheet gives the pulse
+equation as `t_W = R_ext · C_ext` with no coefficient, so the fitted parts
+compute to `220 kΩ · 1 µF ≈ 220 ms` — not the 99 ms that TI's 0.45 coefficient
+would give for a TI part. The full 74HC123 ordering code,
 R/C tolerances, and the ceramic capacitor's effective capacitance are not yet
 recorded; coefficient and tolerance are vendor-dependent, so measure the actual
 period on the assembled circuit. The guarantee holds only if the AND gating is
